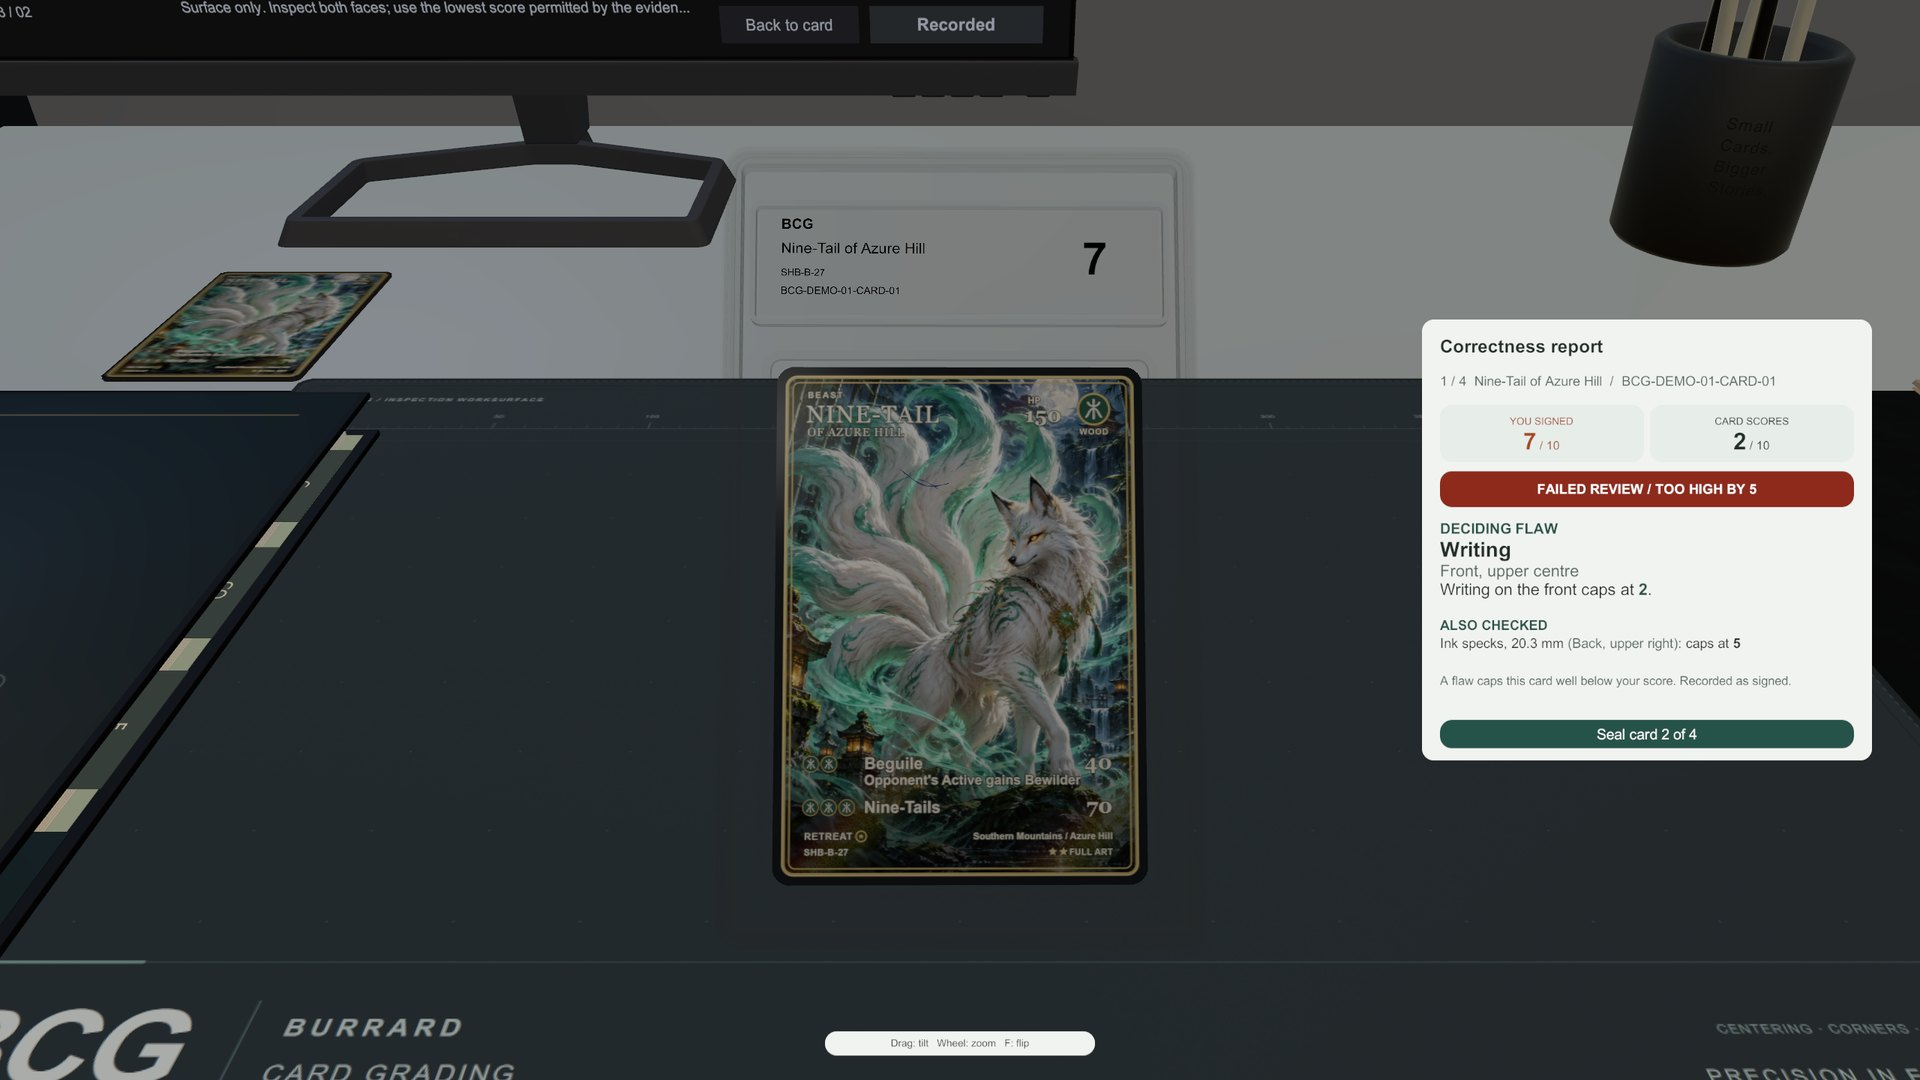
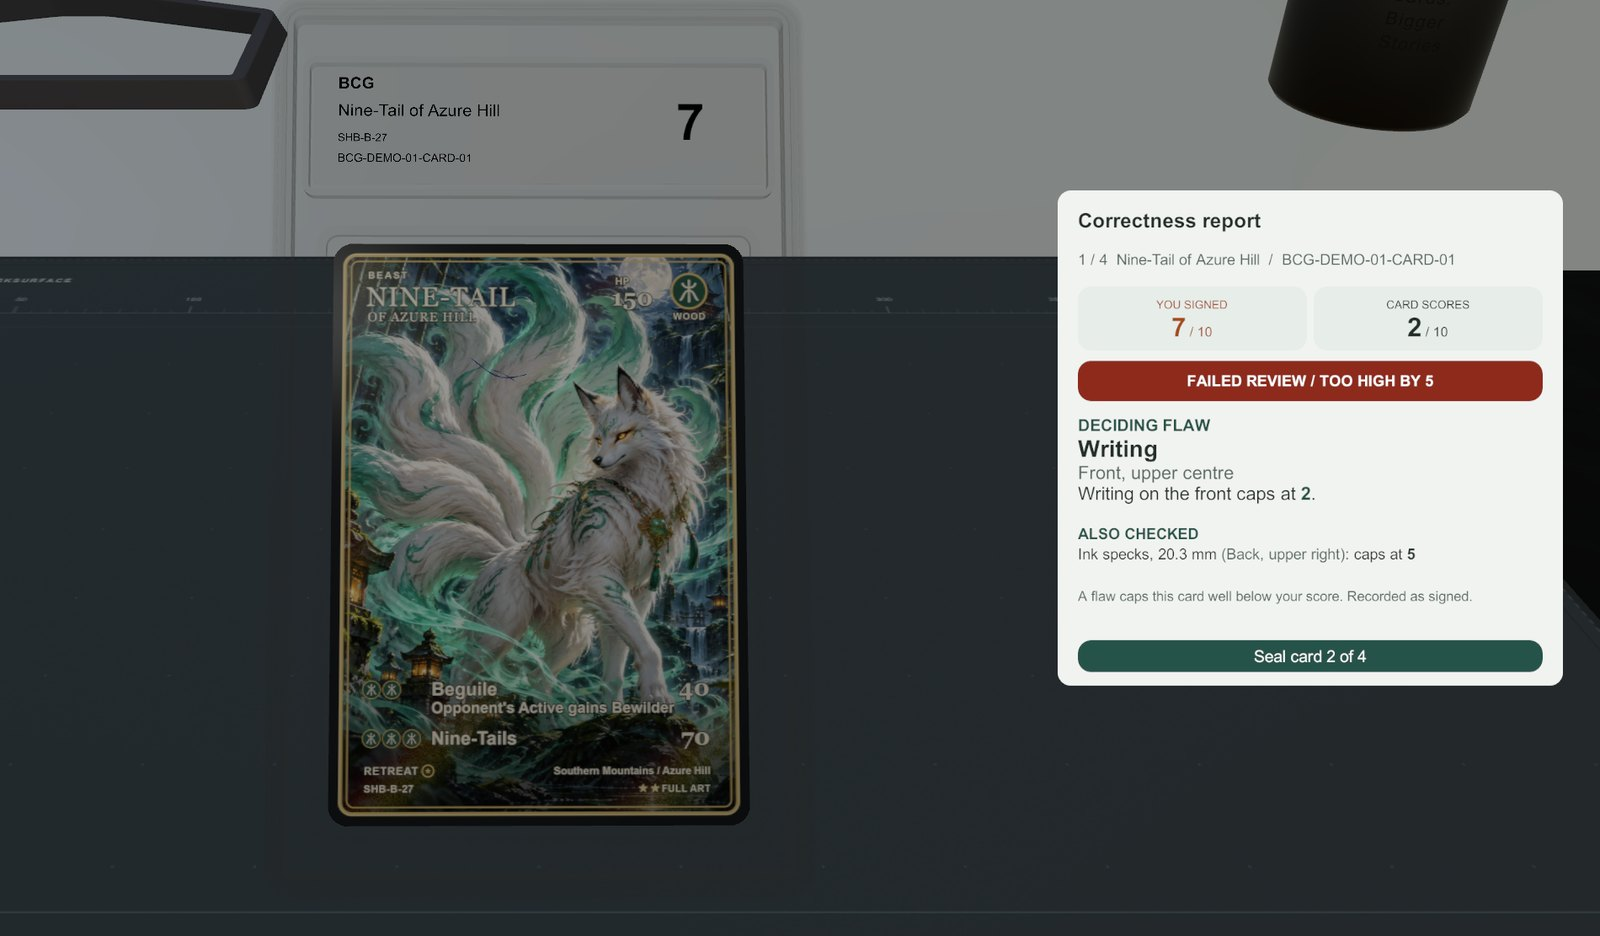
content: crop main gallery image; remove unused desk concept art

diff --git a/README.md b/README.md
@@ -8,7 +8,7 @@ One static page: `index.html` + `assets/`. No build step, no server code, no fra
 |---|---|
 | `index.html` | The whole site — HTML, CSS and the three.js card hero in one file |
 | `assets/card-pyrodon.jpg` | Card face used by the 3D hero (perspective-corrected from the desk render) |
-| `assets/desk.jpg`, `office.jpg` | Gallery concept art; `hearing.jpg` is retained as an unused historical asset |
+| `assets/overgrading-review.jpg`, `office.jpg`, `batch-review.png` | Gallery: in-game correctness report (main), office concept art, batch review; `hearing.jpg` is retained as an unused historical asset |
 | `assets/batch-review.png` | Current Unity batch-review screenshot; replaces the hearing image in the public gallery |
 | `assets/foil.jpg`, `two-angles.jpg`, `capsule.jpg` | Spare images; `capsule.jpg` is the social-share preview (`og:image`) |
 | `robots.txt`, `sitemap.xml` | Crawl rules and the URL list for search engines |
